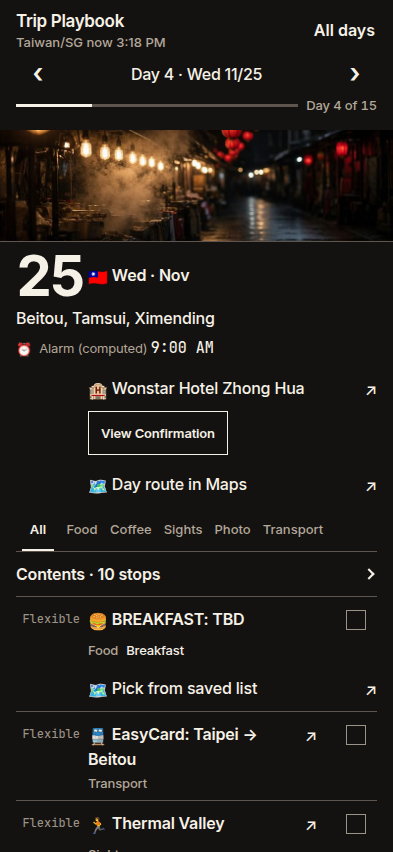
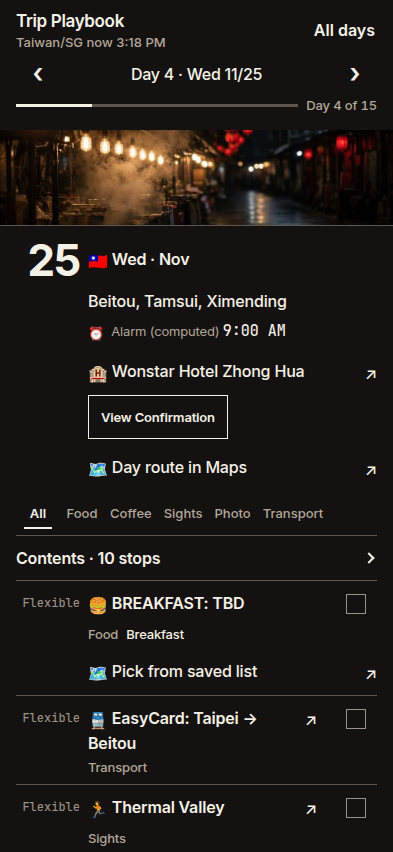
Put the day numeral back in the rail and keep amber on NOW.
The city photograph is a hard 96px header, and 5 and 25 share the rail's right edge.

diff --git a/mockups/v2/html/board-contents.html b/mockups/v2/html/board-contents.html
@@ -394,7 +394,7 @@
     [data-theme="board"] .plate {
       display: block;
       margin: 8px -16px 0;
-      height: 112px;
+      height: 96px;
       overflow: hidden;
       background: #0c0b09;
       border-bottom: 1px solid #5e564e;
@@ -402,15 +402,13 @@
     [data-theme="board"] .plate img {
       display: block;
       width: 100%;
-      height: 112px;
+      height: 96px;
       object-fit: cover;
       object-position: center 40%;
     }
     [data-theme="board"] .plate.singapore img { object-position: center 62%; }
     [data-theme="board"] .dayhead { align-items: center; padding-top: 12px; }
-    [data-theme="board"] .dnum { font-size: 56px; line-height: 0.8; }
-    [data-theme="board"] .areas,
-    [data-theme="board"] .alarm { grid-column: 1 / -1; }
+    [data-theme="board"] .dnum { font-size: 44px; line-height: 1; text-align: right; }
     [data-theme="board"] .big {
       font-family: "JetBrains Mono", ui-monospace, monospace;
       font-weight: 500;
@@ -429,9 +427,9 @@
     [data-theme="board"] .when .flex,
     [data-theme="board"] .contents .when .flex { color: #9c9388; font-weight: 500; }
     [data-theme="board"] .row.now .when {
-      background: #f0b429;
-      color: #1c1406;
-      box-shadow: none;
+      background: transparent;
+      color: #f6f1e7;
+      box-shadow: inset 3px 0 0 #f0b429;
     }
     [data-theme="board"] .badge.nx {
       color: #f6f1e7;
@@ -441,7 +439,7 @@
     [data-theme="board"] .pl .go { margin-right: 8px; }
     [data-theme="board"] .crow .on { font-weight: 500; }
     [data-theme="board"] .done::before { border-color: #9c9388; }
-    [data-theme="board"] .fchip.on::after { bottom: 0; left: 6px; right: 6px; }
+    [data-theme="board"] .fchip.on::after { bottom: 6px; left: 8px; right: 8px; }
     [data-theme="board"] .row.past .pl,
     [data-theme="board"] .row.past .tag,
     [data-theme="board"] .row.past .trv,

diff --git a/mockups/v2/html/board-day4.html b/mockups/v2/html/board-day4.html
@@ -394,7 +394,7 @@
     [data-theme="board"] .plate {
       display: block;
       margin: 8px -16px 0;
-      height: 112px;
+      height: 96px;
       overflow: hidden;
       background: #0c0b09;
       border-bottom: 1px solid #5e564e;
@@ -402,15 +402,13 @@
     [data-theme="board"] .plate img {
       display: block;
       width: 100%;
-      height: 112px;
+      height: 96px;
       object-fit: cover;
       object-position: center 40%;
     }
     [data-theme="board"] .plate.singapore img { object-position: center 62%; }
     [data-theme="board"] .dayhead { align-items: center; padding-top: 12px; }
-    [data-theme="board"] .dnum { font-size: 56px; line-height: 0.8; }
-    [data-theme="board"] .areas,
-    [data-theme="board"] .alarm { grid-column: 1 / -1; }
+    [data-theme="board"] .dnum { font-size: 44px; line-height: 1; text-align: right; }
     [data-theme="board"] .big {
       font-family: "JetBrains Mono", ui-monospace, monospace;
       font-weight: 500;
@@ -429,9 +427,9 @@
     [data-theme="board"] .when .flex,
     [data-theme="board"] .contents .when .flex { color: #9c9388; font-weight: 500; }
     [data-theme="board"] .row.now .when {
-      background: #f0b429;
-      color: #1c1406;
-      box-shadow: none;
+      background: transparent;
+      color: #f6f1e7;
+      box-shadow: inset 3px 0 0 #f0b429;
     }
     [data-theme="board"] .badge.nx {
       color: #f6f1e7;
@@ -441,7 +439,7 @@
     [data-theme="board"] .pl .go { margin-right: 8px; }
     [data-theme="board"] .crow .on { font-weight: 500; }
     [data-theme="board"] .done::before { border-color: #9c9388; }
-    [data-theme="board"] .fchip.on::after { bottom: 0; left: 6px; right: 6px; }
+    [data-theme="board"] .fchip.on::after { bottom: 6px; left: 8px; right: 8px; }
     [data-theme="board"] .row.past .pl,
     [data-theme="board"] .row.past .tag,
     [data-theme="board"] .row.past .trv,

diff --git a/mockups/v2/html/board-expanded.html b/mockups/v2/html/board-expanded.html
@@ -394,7 +394,7 @@
     [data-theme="board"] .plate {
       display: block;
       margin: 8px -16px 0;
-      height: 112px;
+      height: 96px;
       overflow: hidden;
       background: #0c0b09;
       border-bottom: 1px solid #5e564e;
@@ -402,15 +402,13 @@
     [data-theme="board"] .plate img {
       display: block;
       width: 100%;
-      height: 112px;
+      height: 96px;
       object-fit: cover;
       object-position: center 40%;
     }
     [data-theme="board"] .plate.singapore img { object-position: center 62%; }
     [data-theme="board"] .dayhead { align-items: center; padding-top: 12px; }
-    [data-theme="board"] .dnum { font-size: 56px; line-height: 0.8; }
-    [data-theme="board"] .areas,
-    [data-theme="board"] .alarm { grid-column: 1 / -1; }
+    [data-theme="board"] .dnum { font-size: 44px; line-height: 1; text-align: right; }
     [data-theme="board"] .big {
       font-family: "JetBrains Mono", ui-monospace, monospace;
       font-weight: 500;
@@ -429,9 +427,9 @@
     [data-theme="board"] .when .flex,
     [data-theme="board"] .contents .when .flex { color: #9c9388; font-weight: 500; }
     [data-theme="board"] .row.now .when {
-      background: #f0b429;
-      color: #1c1406;
-      box-shadow: none;
+      background: transparent;
+      color: #f6f1e7;
+      box-shadow: inset 3px 0 0 #f0b429;
     }
     [data-theme="board"] .badge.nx {
       color: #f6f1e7;
@@ -441,7 +439,7 @@
     [data-theme="board"] .pl .go { margin-right: 8px; }
     [data-theme="board"] .crow .on { font-weight: 500; }
     [data-theme="board"] .done::before { border-color: #9c9388; }
-    [data-theme="board"] .fchip.on::after { bottom: 0; left: 6px; right: 6px; }
+    [data-theme="board"] .fchip.on::after { bottom: 6px; left: 8px; right: 8px; }
     [data-theme="board"] .row.past .pl,
     [data-theme="board"] .row.past .tag,
     [data-theme="board"] .row.past .trv,

diff --git a/mockups/v2/html/board-now.html b/mockups/v2/html/board-now.html
@@ -394,7 +394,7 @@
     [data-theme="board"] .plate {
       display: block;
       margin: 8px -16px 0;
-      height: 112px;
+      height: 96px;
       overflow: hidden;
       background: #0c0b09;
       border-bottom: 1px solid #5e564e;
@@ -402,15 +402,13 @@
     [data-theme="board"] .plate img {
       display: block;
       width: 100%;
-      height: 112px;
+      height: 96px;
       object-fit: cover;
       object-position: center 40%;
     }
     [data-theme="board"] .plate.singapore img { object-position: center 62%; }
     [data-theme="board"] .dayhead { align-items: center; padding-top: 12px; }
-    [data-theme="board"] .dnum { font-size: 56px; line-height: 0.8; }
-    [data-theme="board"] .areas,
-    [data-theme="board"] .alarm { grid-column: 1 / -1; }
+    [data-theme="board"] .dnum { font-size: 44px; line-height: 1; text-align: right; }
     [data-theme="board"] .big {
       font-family: "JetBrains Mono", ui-monospace, monospace;
       font-weight: 500;
@@ -429,9 +427,9 @@
     [data-theme="board"] .when .flex,
     [data-theme="board"] .contents .when .flex { color: #9c9388; font-weight: 500; }
     [data-theme="board"] .row.now .when {
-      background: #f0b429;
-      color: #1c1406;
-      box-shadow: none;
+      background: transparent;
+      color: #f6f1e7;
+      box-shadow: inset 3px 0 0 #f0b429;
     }
     [data-theme="board"] .badge.nx {
       color: #f6f1e7;
@@ -441,7 +439,7 @@
     [data-theme="board"] .pl .go { margin-right: 8px; }
     [data-theme="board"] .crow .on { font-weight: 500; }
     [data-theme="board"] .done::before { border-color: #9c9388; }
-    [data-theme="board"] .fchip.on::after { bottom: 0; left: 6px; right: 6px; }
+    [data-theme="board"] .fchip.on::after { bottom: 6px; left: 8px; right: 8px; }
     [data-theme="board"] .row.past .pl,
     [data-theme="board"] .row.past .tag,
     [data-theme="board"] .row.past .trv,
